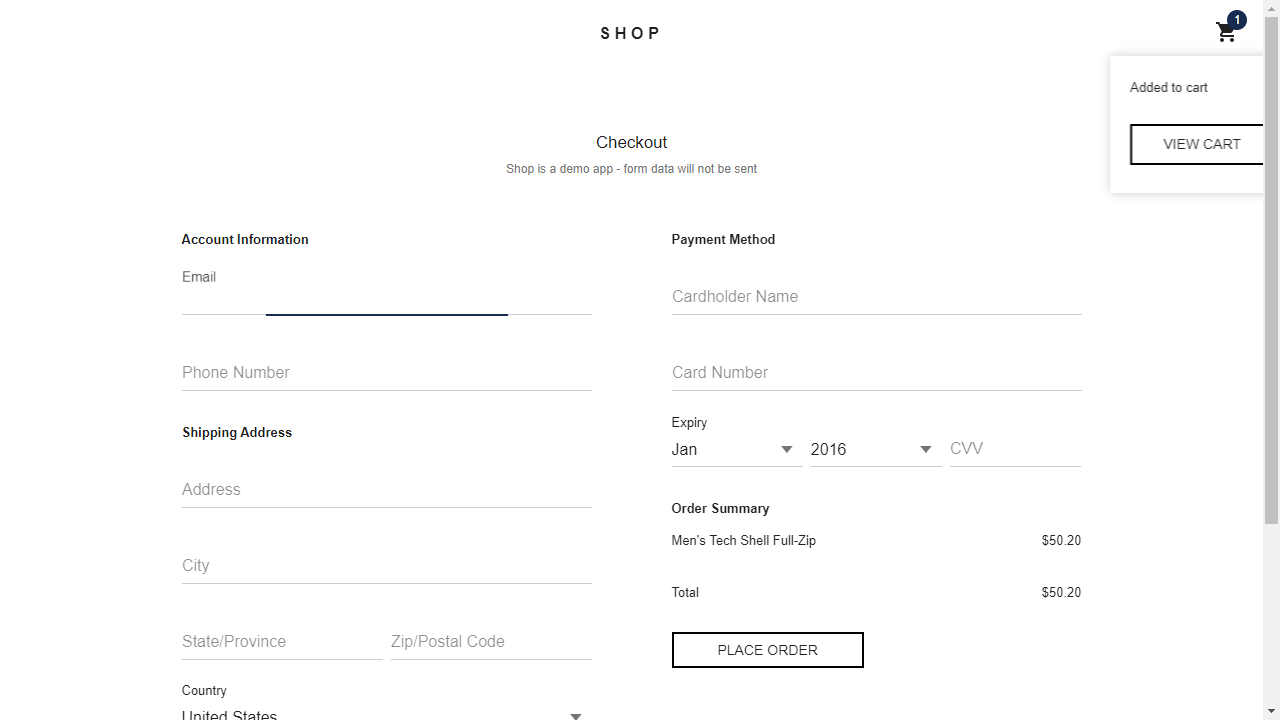
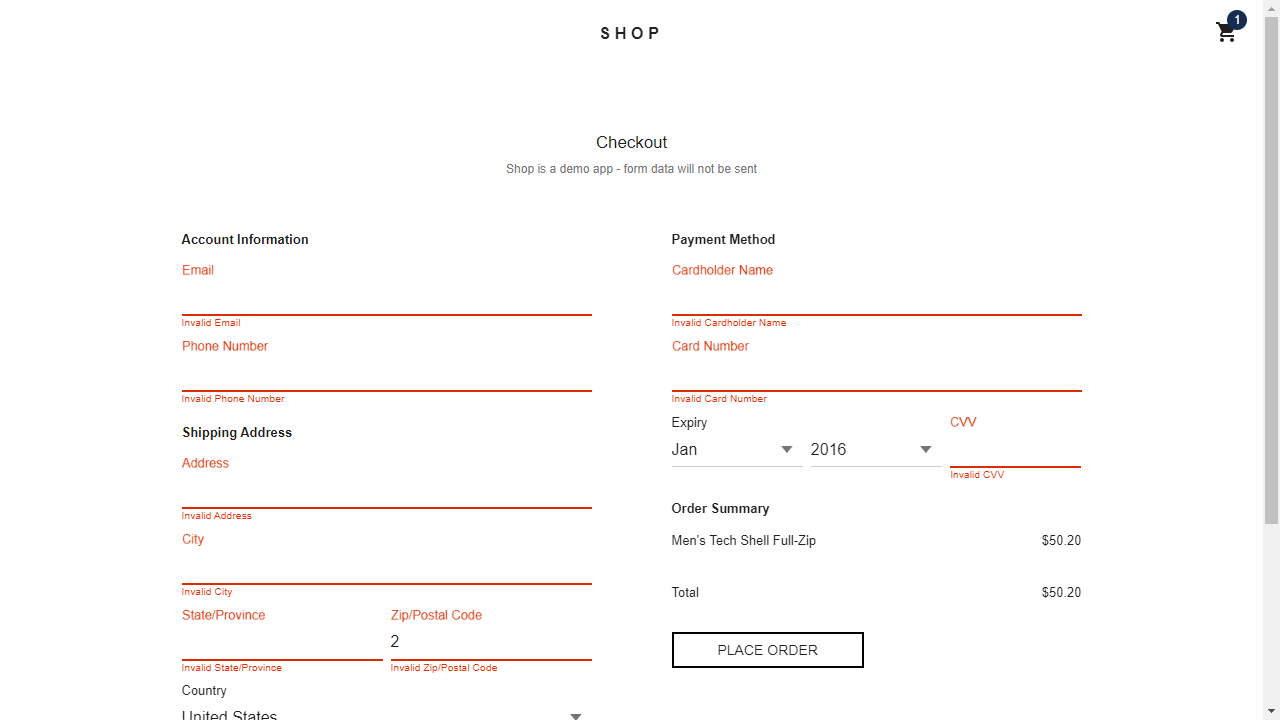
Update PP-55, PP-109

diff --git a/step_definitions/checkoutForm.js b/step_definitions/checkoutForm.js
@@ -102,20 +102,21 @@ Given('I access the checkout form Page', () => {
     When('Enter {string} special characters and numeric characters into the field.', (statename) => {
         I.click('#submitBox');
         I.fillField('#shipState', statename);
-        I.wait(5)
         });
-    Then('An error message Invalid State/Province is displayed.', () => {
+    Then('An error message Invalid State Province is displayed.', () => {
         I.click('#submitBox');
-        checkoutForm.shipStateErrorMessage ();
+        I.wait(5);
+        I.see('Invalid State/Province')
         });
     //PP-109
-    When('Enter a {int} with a length below the required limit into the Zip/Postal Code field', (code) => {
+    When('Enter a {int} with a length below the required limit into the Zip Postal Code field', (code) => {
       I.click('#submitBox');
       I.fillField('#shipZip', code);
       });
-    Then('An error message Invalid Zip/Postal Code is displayed', () => {
+    Then('An error message Invalid Zip Postal Code is displayed', () => {
       I.click('#submitBox');
-      checkoutForm.shipZipErrorMessage();      
+      I.see('Invalid Zip/Postal Code') 
+      I.wait(5)     
     });
 
     //PP-61
@@ -123,7 +124,7 @@ Given('I access the checkout form Page', () => {
 
       });
     Then('The system should display the default country as United States.', () => {
-     I.seeElement( 'United States', '#shipCountry')
+      I.see('United States', '#shipCountry option[selected]')
       });
     //PP-64
     When('Enter {string} special characters or numbers into the Cardholder Name field.', (cardholdername) => {
@@ -132,7 +133,7 @@ Given('I access the checkout form Page', () => {
     Then('An error message Invalid Cardholder Name is displayed', () => {
       I.click('#submitBox');
       I.wait(5)
-      I.seeElement('Invalid Cardholder Name','shop-md-decorator[error-message="Invalid Cardholder Name"]')    
+      I.seeElement('shop-md-decorator[error-message="Invalid Cardholder Name"]')    
     });
      //PP-71
     When('Enter a {string} within the allowed limit digits but containing spaces into the Card Number field.', (cardnumber) => {

diff --git a/step_definitions/men_outerwear.js b/step_definitions/men_outerwear.js
@@ -109,9 +109,6 @@ Then('The product detail page should include product name, description, price, s
     assert.strictEqual(productPrice * productQuantity, checkoutProductPrice, 'Price does not match')
   });
 
-  //PP-111
-
-
   
   
   

diff --git a/page_object/men_outerwear.js b/page_object/men_outerwear.js
@@ -52,7 +52,8 @@ module.exports = {
     I.seeElement('.description');
     I.seeElement(this.addToCartButton.button)
   },
-  
+
+
 
   //PP-21
   /*selectQuantity() {
